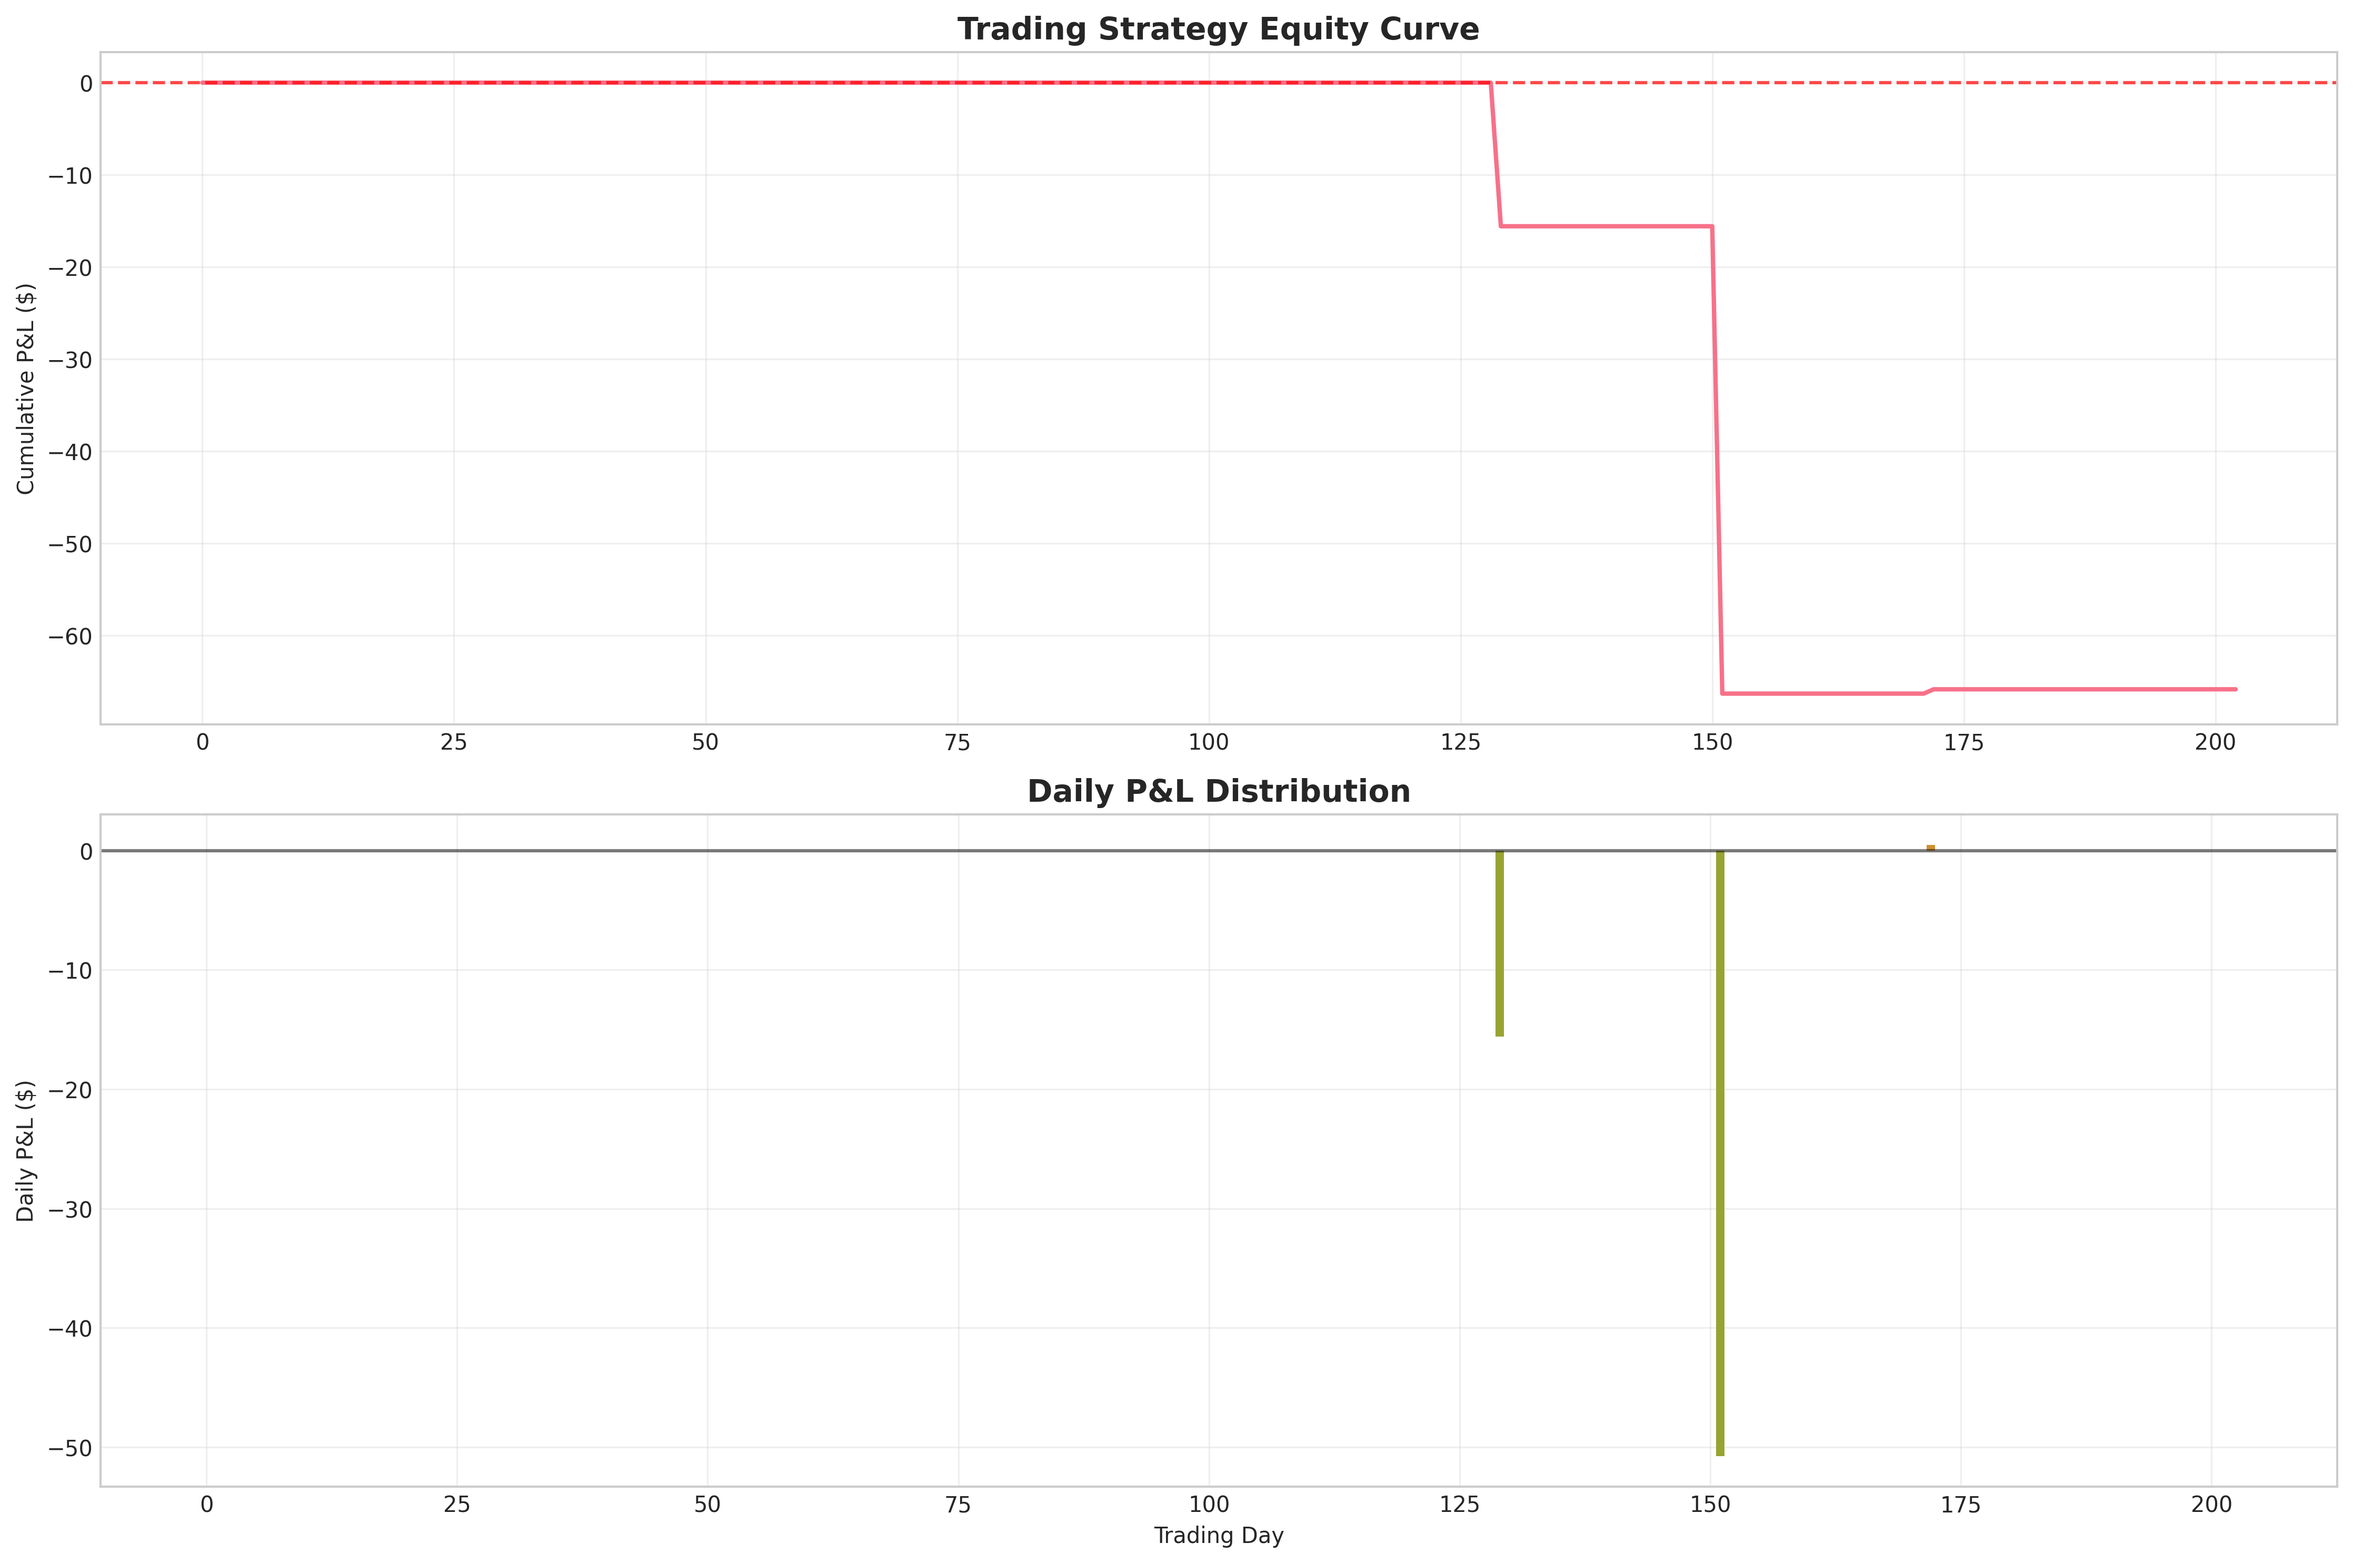
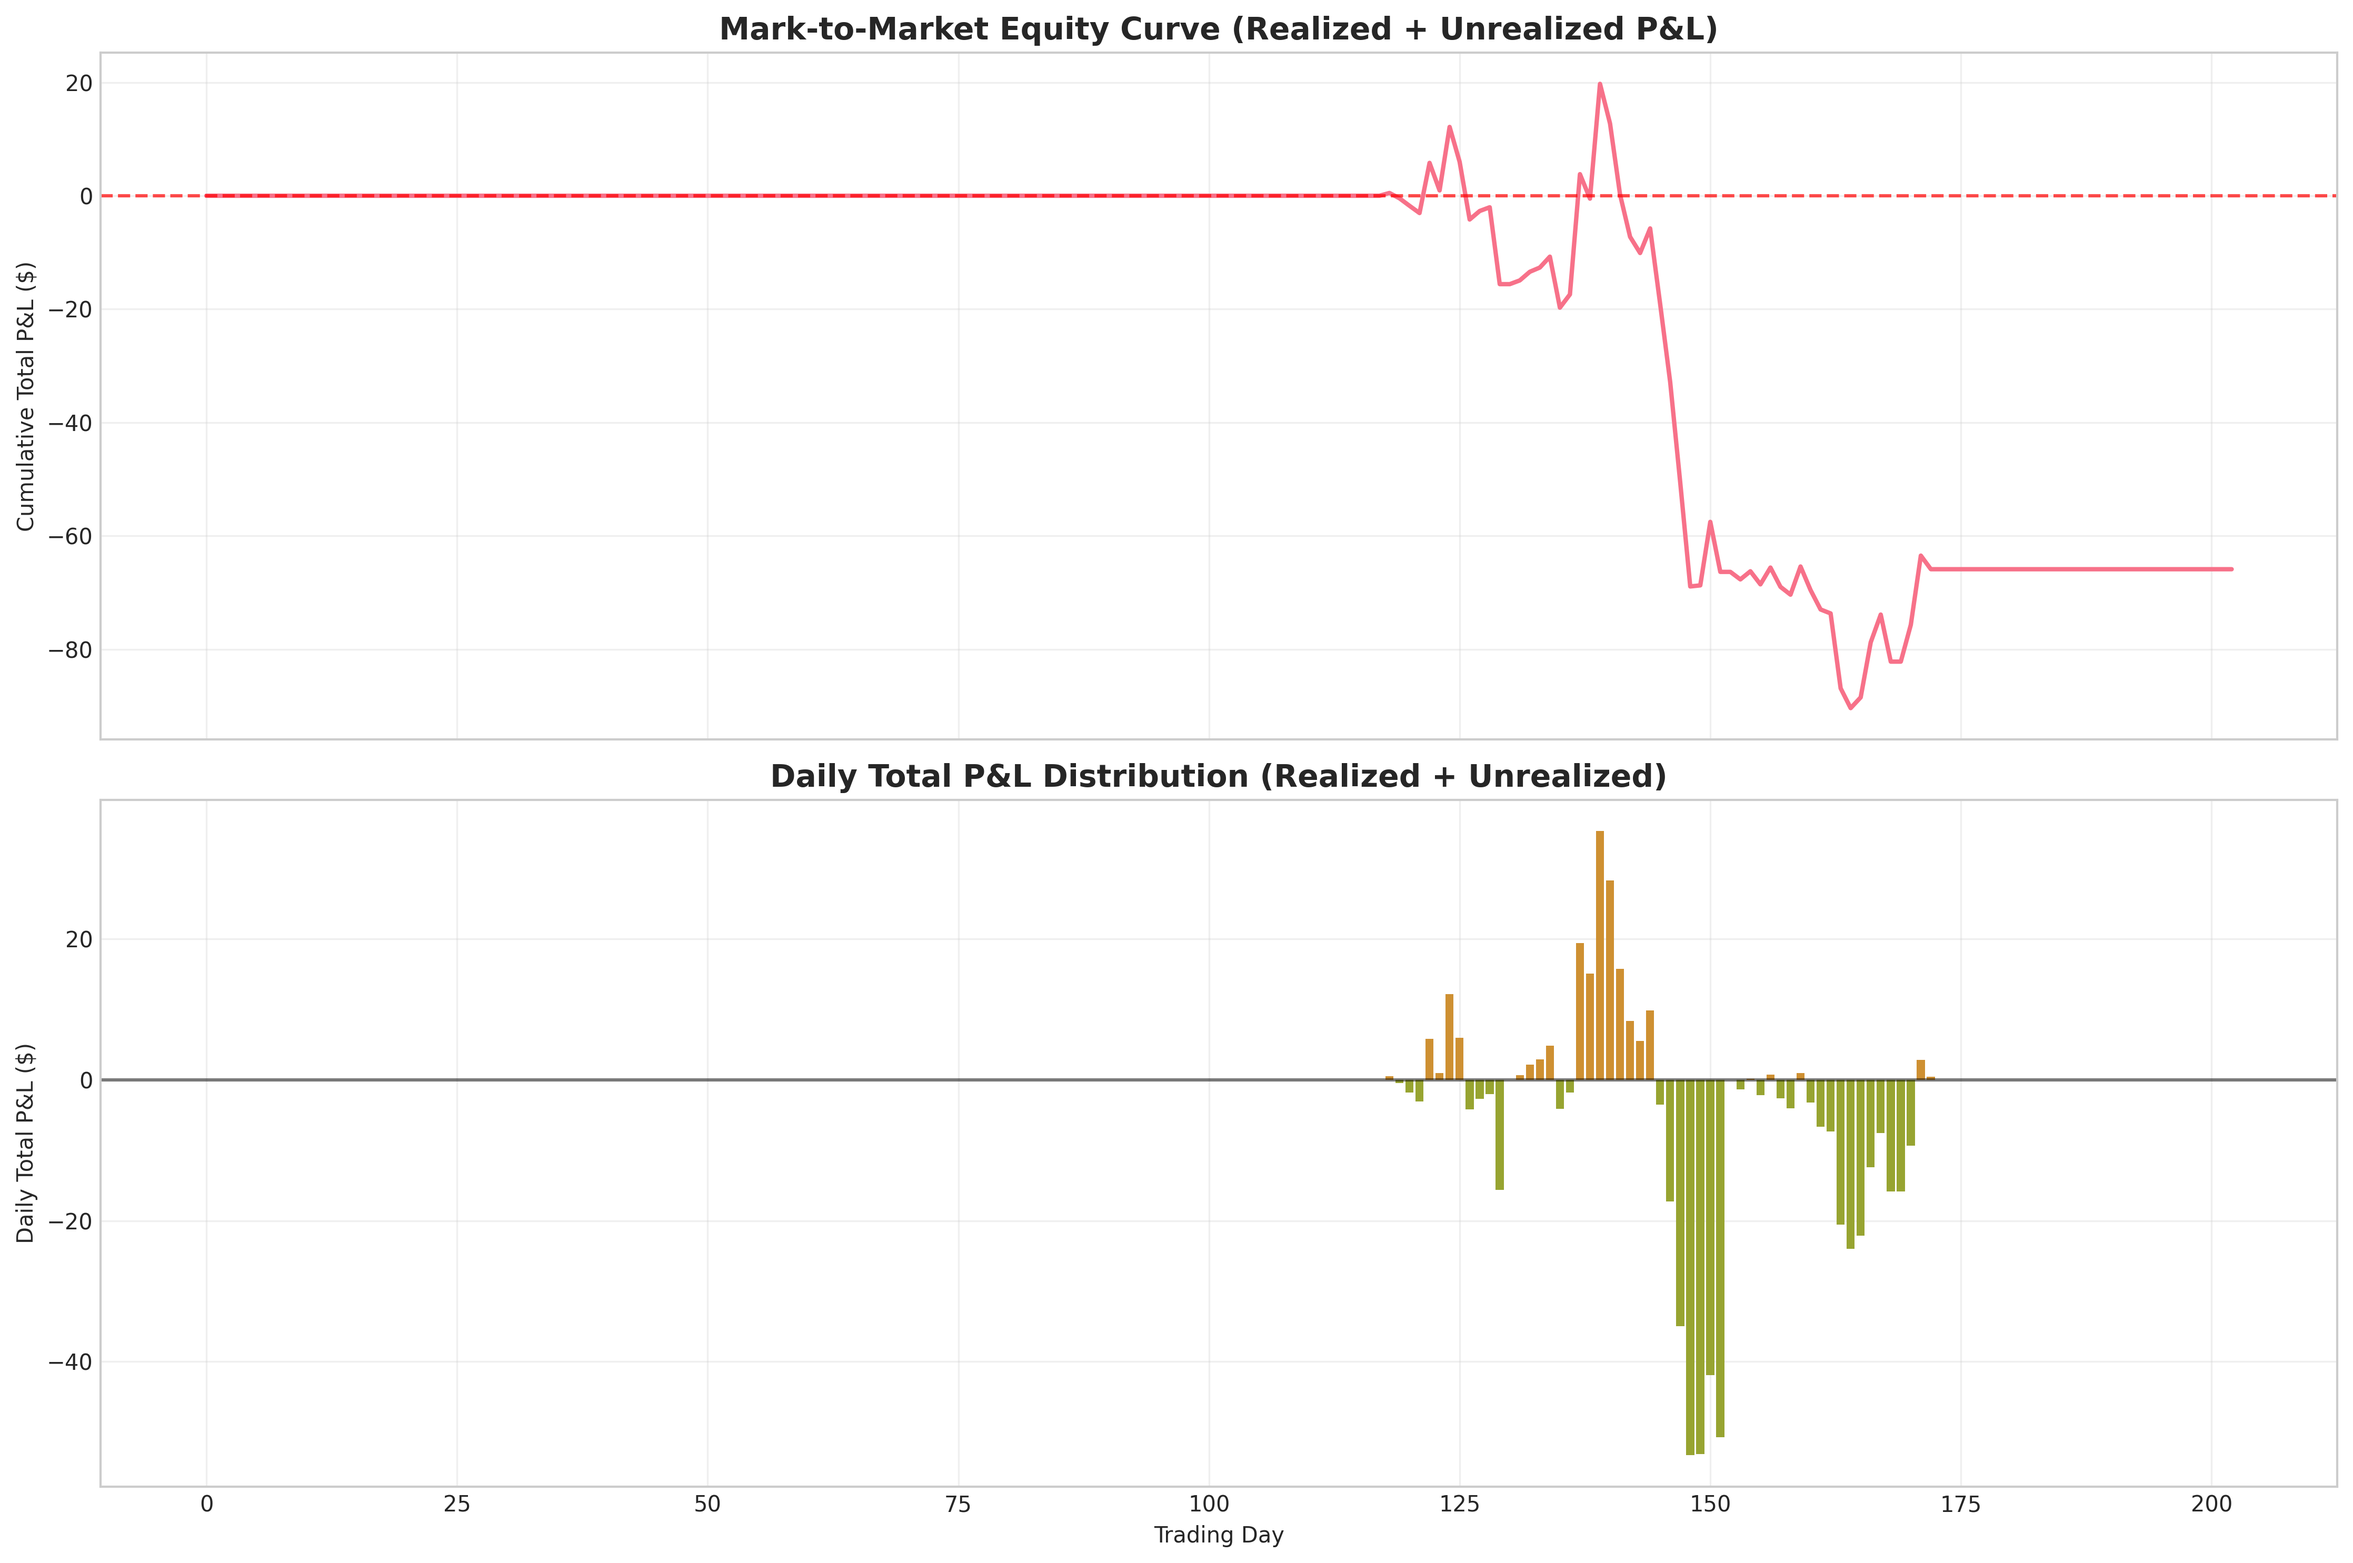
plot revised

diff --git a/src/trading/lstm_strategy.py b/src/trading/lstm_strategy.py
@@ -645,25 +645,43 @@ class LSTMTradingStrategy:
         plt.style.use("seaborn-v0_8-whitegrid")
         palette = sns.color_palette("husl", 8)
 
-        # 1. Equity curve
-        _, (ax1, ax2) = plt.subplots(2, 1, figsize=(15, 10))
+        # 1. Equity curve and Daily P&L
+        _, (ax1, ax2) = plt.subplots(2, 1, figsize=(15, 10), sharex=True)
 
-        # Equity curve
-        ax1.plot(self.equity_curve, color=palette[0], linewidth=2)
-        ax1.set_title("Trading Strategy Equity Curve", fontsize=14, fontweight="bold")
-        ax1.set_ylabel("Cumulative P&L ($)")
+        # Correctly calculate Mark-to-Market (MtM) equity curve
+        # MtM Equity = Cumulative Realized P&L + Current Unrealized P&L
+        cumulative_realized_pnl = np.cumsum(self.daily_realized_pnl)
+        mark_to_market_equity_curve = (
+            cumulative_realized_pnl + self.daily_unrealized_pnl
+        )
+
+        # Equity curve (now showing MtM equity)
+        ax1.plot(mark_to_market_equity_curve, color=palette[0], linewidth=2)
+        ax1.set_title(
+            "Mark-to-Market Equity Curve (Realized + Unrealized P&L)",
+            fontsize=14,
+            fontweight="bold",
+        )
+        ax1.set_ylabel("Cumulative Total P&L ($)")
         ax1.grid(True, alpha=0.3)
         ax1.axhline(y=0, color="red", linestyle="--", alpha=0.7)
 
-        # Daily P&L
+        # Daily P&L (still showing total daily P&L for distribution analysis)
+        daily_pnl_to_plot = self.daily_total_pnl
         ax2.bar(
-            range(len(self.daily_pnl)),
-            self.daily_pnl,
-            color=[palette[1] if pnl >= 0 else palette[2] for pnl in self.daily_pnl],
+            range(len(daily_pnl_to_plot)),
+            daily_pnl_to_plot,
+            color=[
+                palette[1] if pnl >= 0 else palette[2] for pnl in daily_pnl_to_plot
+            ],
         )
-        ax2.set_title("Daily P&L Distribution", fontsize=14, fontweight="bold")
+        ax2.set_title(
+            "Daily Total P&L Distribution (Realized + Unrealized)",
+            fontsize=14,
+            fontweight="bold",
+        )
         ax2.set_xlabel("Trading Day")
-        ax2.set_ylabel("Daily P&L ($)")
+        ax2.set_ylabel("Daily Total P&L ($)")
         ax2.grid(True, alpha=0.3)
         ax2.axhline(y=0, color="black", linestyle="-", alpha=0.5)
 
@@ -683,7 +701,9 @@ class LSTMTradingStrategy:
                 # Trade P&L distribution
                 pnls = [trade.pnl for trade in closed_trades if trade.pnl is not None]
                 ax1.hist(pnls, bins=20, color=palette[0], alpha=0.7, edgecolor="black")
-                ax1.set_title("Trade P&L Distribution", fontweight="bold")
+                ax1.set_title(
+                    "Trade P&L Distribution (Realized Trades Only)", fontweight="bold"
+                )
                 ax1.set_xlabel("P&L ($)")
                 ax1.set_ylabel("Frequency")
                 ax1.axvline(x=0, color="red", linestyle="--")
@@ -717,7 +737,9 @@ class LSTMTradingStrategy:
                     pnls = list(monthly_pnl.values())
                     colors = [palette[1] if pnl >= 0 else palette[2] for pnl in pnls]
                     ax3.bar(range(len(pnls)), pnls, color=colors)
-                    ax3.set_title("Monthly P&L", fontweight="bold")
+                    ax3.set_title(
+                        "Monthly P&L (Realized Trades Only)", fontweight="bold"
+                    )
                     ax3.set_xlabel("Month")
                     ax3.set_ylabel("Monthly P&L ($)")
                     ax3.set_xticks(range(len(months)))
@@ -750,7 +772,9 @@ class LSTMTradingStrategy:
                         palette[1] if pnl >= 0 else palette[2] for pnl in avg_pnls
                     ]
                     ax4.bar(trade_types, avg_pnls, color=colors)
-                    ax4.set_title("Average P&L by Trade Type", fontweight="bold")
+                    ax4.set_title(
+                        "Average P&L by Trade Type (Realized)", fontweight="bold"
+                    )
                     ax4.set_ylabel("Average P&L ($)")
                     ax4.axhline(y=0, color="black", linestyle="-", alpha=0.5)
 

diff --git a/src/tuning/tune_hyperparameters.py b/src/tuning/tune_hyperparameters.py
@@ -27,6 +27,7 @@ from src.data.data_loader import DataLoader as IronOreDataLoader
 from src.data.dataset import create_dataloaders
 from src.models.model import create_model
 from src.training.train import create_trainer
+from src.utils.seed import set_seed, validate_reproducibility
 
 # --- Configuration ---
 
